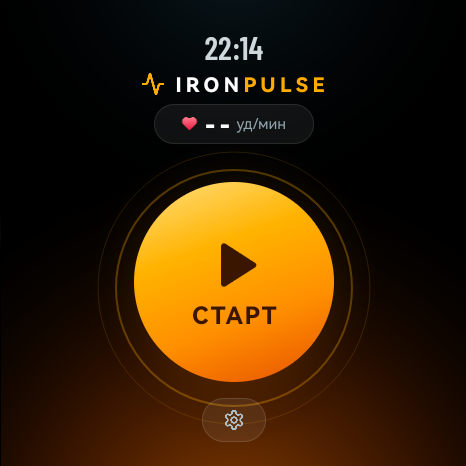
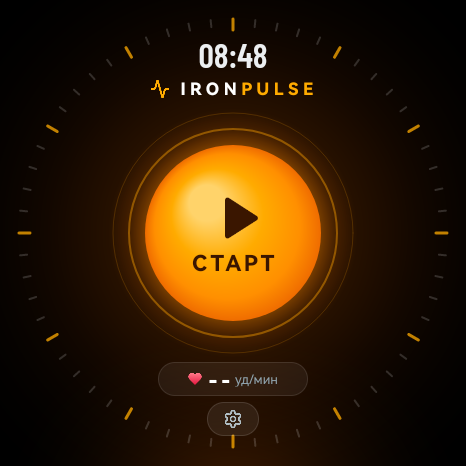
Symmetric start screen: dial ticks, concentric rings and a canvas-drawn Start button
Everything on the menu is laid out around the screen centre (233, 233) with
absolute positions; the button, its halo, the rings and a 60-tick dial are
drawn on the canvas (antialiased), with a transparent hit area on top.
Settings get their own background scene.

diff --git a/api8/entry/src/main/js/MainAbility/common/draw.js b/api8/entry/src/main/js/MainAbility/common/draw.js
@@ -11,7 +11,8 @@ const HR_START = (220 - 90) * DEG;
 const HR_SWEEP = 280 * DEG;
 
 const GLOWS = {
-  menu: [[0.5, 1.18, 'rgba(255,122,0,0.55)', 'rgba(255,92,0,0.16)', 0.62], [0.5, -0.12, 'rgba(79,195,247,0.14)', null, 0.42], [0.5, 0.618, 'rgba(255,140,0,0.50)', null, 0.24]],
+  settings: [[0.5, 1.15, 'rgba(255,110,0,0.28)', null, 0.40]],
+  menu: [[0.5, 0.5, 'rgba(255,140,0,0.30)', 'rgba(255,100,0,0.08)', 0.50], [0.5, 1.15, 'rgba(255,110,0,0.30)', null, 0.38]],
   ready: [[0.5, 0.62, 'rgba(0,230,118,0.20)', 'rgba(0,200,100,0.06)', 0.58], [0.5, 1.2, 'rgba(255,143,0,0.35)', null, 0.40]],
   set: [[0.5, 0.46, 'rgba(255,145,0,0.32)', 'rgba(255,110,0,0.10)', 0.60]],
   rest: [[0.5, 0.44, 'rgba(41,121,255,0.34)', 'rgba(0,176,255,0.10)', 0.62]],
@@ -134,6 +135,54 @@ function zoneGlowColor(zone) {
   return 'rgba(0,230,118,ALPHA)';
 }
 
+/** Меню: шкала по краю, два кольца и кнопка «СТАРТ» — всё концентрично центру экрана. */
+function drawMenu(ctx) {
+  // Шкала на 60 делений, каждое пятое — янтарное и длиннее.
+  ctx.lineCap = 'round';
+  for (let i = 0; i < 60; i++) {
+    const a = i * Math.PI / 30 - Math.PI / 2;
+    const major = i % 5 === 0;
+    const r1 = major ? 203 : 207;
+    const r2 = 214;
+    ctx.lineWidth = major ? 3 : 2;
+    ctx.strokeStyle = major ? 'rgba(255,171,0,0.75)' : 'rgba(255,255,255,0.16)';
+    ctx.beginPath();
+    ctx.moveTo(C + r1 * Math.cos(a), C + r1 * Math.sin(a));
+    ctx.lineTo(C + r2 * Math.cos(a), C + r2 * Math.sin(a));
+    ctx.stroke();
+  }
+  // Кольца
+  ctx.lineWidth = 1;
+  ctx.strokeStyle = 'rgba(255,171,0,0.18)';
+  ctx.beginPath();
+  ctx.arc(C, C, 120, 0, 2 * Math.PI, false);
+  ctx.stroke();
+  ctx.lineWidth = 2;
+  ctx.strokeStyle = 'rgba(255,171,0,0.42)';
+  ctx.beginPath();
+  ctx.arc(C, C, 104, 0, 2 * Math.PI, false);
+  ctx.stroke();
+  // Свечение кнопки — плавный радиальный градиент от края кнопки наружу
+  const halo = ctx.createRadialGradient(C, C, 84, C, C, 124);
+  halo.addColorStop(0, 'rgba(255,140,0,0.38)');
+  halo.addColorStop(0.45, 'rgba(255,120,0,0.12)');
+  halo.addColorStop(1, 'rgba(255,100,0,0)');
+  ctx.fillStyle = halo;
+  ctx.beginPath();
+  ctx.arc(C, C, 124, 0, 2 * Math.PI, false);
+  ctx.fill();
+  // Кнопка: объёмный градиент с мягким бликом вверху слева
+  const g = ctx.createRadialGradient(C - 26, C - 30, 18, C, C, 88);
+  g.addColorStop(0, '#FFD36A');
+  g.addColorStop(0.4, '#FFAB00');
+  g.addColorStop(0.78, '#FF8F00');
+  g.addColorStop(1, '#EF6C00');
+  ctx.fillStyle = g;
+  ctx.beginPath();
+  ctx.arc(C, C, 88, 0, 2 * Math.PI, false);
+  ctx.fill();
+}
+
 /**
  * opts: { scene: 'menu'|'ready'|'set'|'rest'|'restLate'|'panel'|'summary'|'paused',
  *         hrFrac, zone, restProgress, restMarks }
@@ -147,16 +196,7 @@ export function drawScene(ctx, opts) {
 
   const scene = opts.scene;
   if (scene === 'menu') {
-    ctx.lineWidth = 1;
-    ctx.strokeStyle = 'rgba(255,171,0,0.14)';
-    ctx.beginPath();
-    ctx.arc(C, 288, 136, 0, 2 * Math.PI, false);
-    ctx.stroke();
-    ctx.lineWidth = 2;
-    ctx.strokeStyle = 'rgba(255,171,0,0.30)';
-    ctx.beginPath();
-    ctx.arc(C, 288, 118, 0, 2 * Math.PI, false);
-    ctx.stroke();
+    drawMenu(ctx);
     return;
   }
   if (scene === 'ready' || scene === 'set' || scene === 'paused') {

diff --git a/api8/entry/src/main/js/MainAbility/pages/index/index.css b/api8/entry/src/main/js/MainAbility/pages/index/index.css
@@ -1,49 +1,86 @@
 @import '../../common/style.css';
 
+/* Геометрия: центр экрана (233, 233); кнопка r=88, кольца r=104/120 — рисуются на canvas. */
+
 .clock {
-    margin-top: 28px;
-    height: 36px;
-    font-size: 32px;
-    color: #CFD8DC;
+    position: absolute;
+    left: 0px;
+    top: 34px;
+    width: 466px;
+    height: 38px;
+    font-size: 34px;
+    color: #ECEFF1;
+    text-align: center;
 }
 
 .logo-row {
-    margin-top: 6px;
-    height: 28px;
-    align-items: center;
+    position: absolute;
+    left: 0px;
+    top: 76px;
+    width: 466px;
+    height: 26px;
     justify-content: center;
+    align-items: center;
 }
 
 .logo-icon {
-    width: 24px;
-    height: 24px;
+    width: 20px;
+    height: 20px;
     margin-right: 8px;
 }
 
 .logo-text {
-    font-size: 20px;
+    font-size: 17px;
     font-weight: 800;
     letter-spacing: 5px;
-    color: #FFFFFF;
 }
 
 .logo-white {
-    font-size: 20px;
+    font-size: 17px;
     font-weight: 800;
     color: #FFFFFF;
 }
 
 .logo-accent {
-    font-size: 20px;
+    font-size: 17px;
     font-weight: 800;
     color: #FFAB00;
 }
 
+/* Область нажатия поверх нарисованной кнопки: 176×176 с центром в (233, 233). */
+.start {
+    position: absolute;
+    left: 145px;
+    top: 145px;
+    width: 176px;
+    height: 176px;
+    border-radius: 88px;
+    flex-direction: column;
+    align-items: center;
+    justify-content: center;
+}
+
+.start-icon {
+    width: 58px;
+    height: 58px;
+    margin-left: 8px;
+    margin-bottom: 4px;
+}
+
+.start-text {
+    font-size: 22px;
+    font-weight: 800;
+    letter-spacing: 4px;
+    color: #3A1600;
+}
+
 .hr-chip {
-    margin-top: 6px;
-    width: 160px;
-    height: 40px;
-    border-radius: 20px;
+    position: absolute;
+    left: 158px;
+    top: 362px;
+    width: 150px;
+    height: 34px;
+    border-radius: 17px;
     background-color: rgba(255, 255, 255, 0.06);
     border-width: 1px;
     border-color: rgba(255, 255, 255, 0.1);
@@ -52,49 +89,27 @@
 }
 
 .hr-icon {
-    width: 18px;
-    height: 18px;
-    margin-right: 7px;
-}
-
-.hr-num {
-    font-size: 28px;
+    width: 16px;
+    height: 16px;
     margin-right: 6px;
 }
 
-.hr-unit {
-    font-size: 15px;
-}
-
-.start {
-    margin-top: 38px;
-    width: 200px;
-    height: 200px;
-    border-radius: 100px;
-    background: linear-gradient(160deg, #FFE082 0%, #FFB300 34%, #FF8F00 66%, #E65100 100%);
-    flex-direction: column;
-    align-items: center;
-    justify-content: center;
-}
-
-.start-icon {
-    width: 62px;
-    height: 62px;
-    margin-bottom: 6px;
-}
-
-.start-text {
+.hr-num {
     font-size: 24px;
-    font-weight: 800;
-    letter-spacing: 3px;
-    color: #3A1600;
+    margin-right: 5px;
+}
+
+.hr-unit {
+    font-size: 13px;
 }
 
 .settings {
-    margin-top: 16px;
-    width: 64px;
-    height: 44px;
-    border-radius: 22px;
+    position: absolute;
+    left: 207px;
+    top: 402px;
+    width: 52px;
+    height: 34px;
+    border-radius: 17px;
     border-width: 1px;
     border-color: rgba(255, 255, 255, 0.12);
     background-color: rgba(255, 255, 255, 0.07);
@@ -103,6 +118,6 @@
 }
 
 .settings-icon {
-    width: 22px;
-    height: 22px;
+    width: 20px;
+    height: 20px;
 }

diff --git a/api8/entry/src/main/js/MainAbility/pages/settings/settings.js b/api8/entry/src/main/js/MainAbility/pages/settings/settings.js
@@ -40,7 +40,7 @@ export default {
     onShow() {
         const cv = this.$refs.bg;
         if (cv) {
-            drawScene(cv.getContext('2d', { antialias: true }), { scene: 'menu' });
+            drawScene(cv.getContext('2d', { antialias: true }), { scene: 'settings' });
         }
         try {
             this.$element('list').focus();
